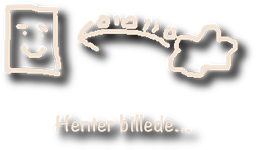
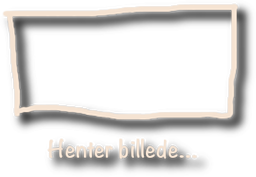
Loading of photos from internet done

diff --git a/Demoteket/Textures.m b/Demoteket/Textures.m
@@ -105,8 +105,6 @@ void textureSetBlend(Texture *texture, GLenum blendSrc, GLenum blendDst) {
     pillarTexture = [self loadTexture:@"pillar.png"];
     pillarBorderTexture = textureCopy(pillarTexture, 0.0f, 0.0f, 0.1f, 1.0f);
     
-    photoLoadingTexture = [self loadTexture:@"loading_photo.png"]; textureSetBlend(&photoLoadingTexture, GL_SRC_ALPHA, GL_ONE_MINUS_SRC_ALPHA);
-
     photosTexture[photosTextureCount++] = [self loadTexture:@"photo1.png"];
     photosTexture[photosTextureCount++] = [self loadTexture:@"photo2.png"];
     photosTexture[photosTextureCount++] = [self loadTexture:@"photo3.png"];
@@ -115,9 +113,9 @@ void textureSetBlend(Texture *texture, GLenum blendSrc, GLenum blendDst) {
     lightTexture[1] = [self loadTexture:@"light2.png"];
     lightTexture[2] = [self loadTexture:@"light3.png"];
     
-    photoLoadingTexture = [self loadTexture:@"loading_photo.png"];
-    
     demoteketLogoTexture = [self loadTexture:@"demoteket_logo.png"]; textureSetBlend(&demoteketLogoTexture, GL_SRC_ALPHA, GL_ONE_MINUS_SRC_ALPHA);
+
+    photoLoadingTexture = [self loadTexture:@"loading_photo.png"]; textureSetBlend(&photoLoadingTexture, GL_SRC_ALPHA, GL_ONE_MINUS_SRC_ALPHA);
 
     floorDistortionTexture = [self loadTexture:@"floor_distortion.png" repeat:true]; textureSetTexCoords(&floorDistortionTexture, 0.0f, 0.0f, 55.0f, 55.0f);
 }
@@ -191,13 +189,13 @@ void textureSetBlend(Texture *texture, GLenum blendSrc, GLenum blendDst) {
 }
 
 - (void) loadPhotoAsyncFromUrl:(NSURL*)url callback:(void(^)(Texture))callback {
-    /*[textureLoader textureWithContentsOfURL:url options:nil queue:NULL completionHandler:^(GLKTextureInfo *textureInfo, NSError *error) {
+    [textureLoader textureWithContentsOfURL:url options:nil queue:NULL completionHandler:^(GLKTextureInfo *textureInfo, NSError *error) {
         if (error) {
             NSLog(@"Error loading texture asynchronously: %@", error);
         }
         Texture texture = [self textureFromTextureInfo:textureInfo repeat:false];
         callback(texture);
-    }];*/
+    }];
 }
 
 - (Texture) photoFromFile:(NSString*)filename {
